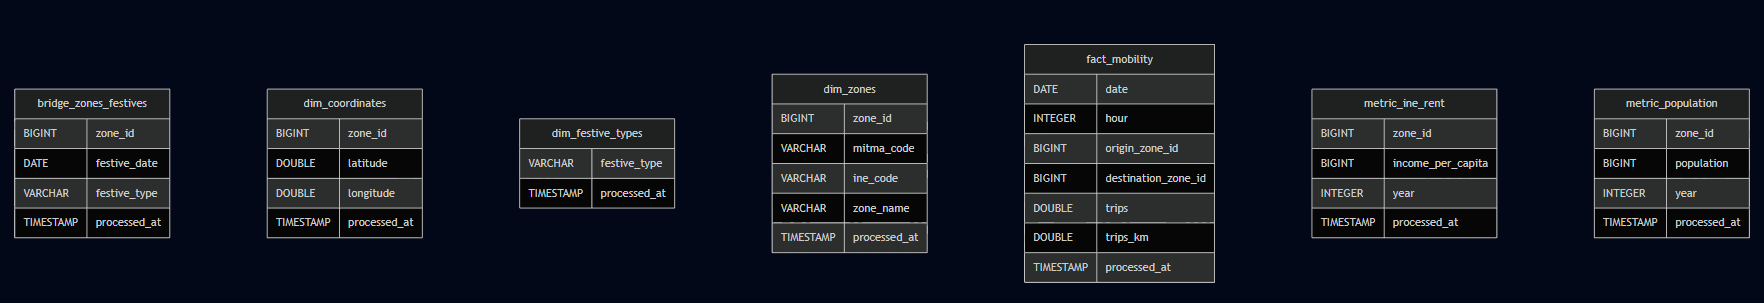
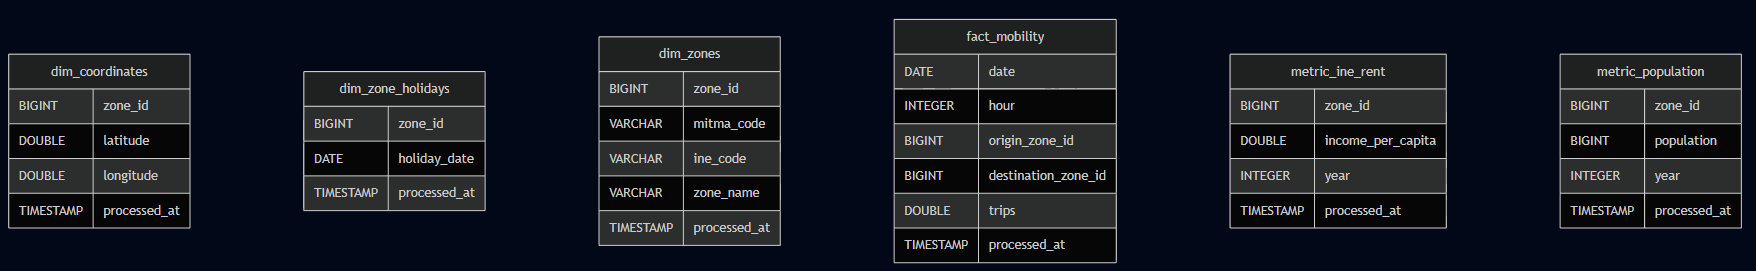
docs: new silver calendar

diff --git a/docs/sprint_logs/Sprint-2.md b/docs/sprint_logs/Sprint-2.md
@@ -7,7 +7,7 @@
 
 **Date:** 24/11/2025
 
-**Status:** In Progress
+**Status:** Finished
 
 ## 1. Sprint Overview & Objectives
 In this sprint, the team focused on transitioning the project from a basic file-based Proof of Concept (PoC) to a managed Data Lakehouse architecture. The primary goal was to establish the foundational infrastructure using DuckLake, enabling ACID-compliant transactions, metadata management, and scalable storage for the future high-volume mobility data.
@@ -116,8 +116,7 @@ The following tables constitute the Core Lakehouse layer:
 | **`fact_mobility`** | Fact | Partitioned by Date. IDs resolved to `BIGINT` from `dim_zone`. Mobilities from any zone not in `dim_zone` **discarded**. Date formated (with TRY because it can have wrong values i.e. `20231035`). Posibility of using batches. `periodo` casted to INTEGER. `Viajes` casted to DOUBLE (With REPLACE for decimals). |
 | **`dim_zones`** | Dim | Our own zone_id for each pair mitma-ine codes (BIGINT). Deduplicated mitma_codes with different ine_codes as MIN(ine_code) (Agregación de municipios). Cleaned `NA` or `NULL` in any mitma or ine code from `bronze.mapping_ine_mitma`. |
 | **`dim_coordinates`** | Dim | Joined to our `zone_id`. Centroids calculated via `latitude` and `longitude` (DOUBLE) (REPLACE `,` by `.`). |
-| **`dim_festive_types`** | Dim | Normalized distinct list of holiday categories (e.g., 'NationalFestive'). 1 type for all 3 different ways to say `NationalFestive` (`festivo nacional`, `Festivo Nacional` (ILIKE), `fiesta nacional`) |
-| **`bridge_zones_festives`** | Bridge | Links Zones to Dates and Holiday types. Uses Cross Join to apply national events to all zones. `festive_date` casted to DATE. |
+| **`dim_zone_holidays`** | Dim | Links Zones to Dates and National Holidays. Uses Cross Join to apply national events to all zones. `festive_date` casted to DATE. National Holidays have 3 different ways to say `National Festive` (`festivo nacional`, `Festivo Nacional` (ILIKE), `fiesta nacional`). |
 | **`metric_population`** | Metric | Linked to our `zone_id`. Safe Double-to-Int casting for population. Asigned all for 2023. |
 | **`metric_ine_rent`** | Metric | Linked to our `zone_id`. `income_per_capita` as BIGINT with REPLACE(`,` by ` `). `year` as INTEGER. Only from the rows where `Distritos` and  `Secciones` are `NULL`, the income is not null, and the `zone_id`exists in `dim_zone`. |
 
@@ -127,14 +126,16 @@ The following tables constitute the Core Lakehouse layer:
 
 ---
 
-### 3.3. Gold Layer Analytics `(In progress)`
+### 3.3. Gold Layer Analytics `(Finished)`
 
 The Gold layer constitutes the **Analytical/Mart** zone of the Lakehouse. Unlike the Silver layer, which focuses on data integrity and normalization, the Gold layer is purpose-built to answer specific business questions. It consists of highly aggregated, business-ready tables derived from complex joins between the Fact and Dimension tables.
 
 **1. Business Question 1: Mobility Pattern Characterization**
-To identify "Typical Day" patterns, we moved beyond simple date groupings and implemented a dynamic categorization engine:
-*   **Calendar Logic:** We implemented a Common Table Expression (CTE) to generate a continuous date series. This was joined with the `bridge_zones_festives` table to dynamically classify every date into three distinct categories: `'weekday'`, `'weekend'`, or `'festive'`.
-*   **Hourly Aggregation:** We aggregated the billions of records in `fact_mobility` to calculate the average hourly trip volume (`SUM(trips) / count_of_days`) for each category. This allows transport experts to visualize the "Pulse of the City" distinct from calendar anomalies.
+To identify "Typical Day" patterns, we moved beyond simple heuristic assumptions and implemented an unsupervised machine learning approach within the Gold Layer pipeline:
+*   **Profile Normalization**: We transformed raw trip counts into normalized daily profiles (probability distributions). This allows the model to compare the shape of the hourly demand curve (e.g., morning peaks vs. lunch plateaus) regardless of the absolute volume of trips.
+*   **Unsupervised Clustering (K-Means)**: We applied K-Means clustering ($k=3$) to mathematically group days with similar temporal behaviors. This creates data-driven categories rather than relying solely on the calendar.
+* **Gold Table Materialization:** The resulting centroids are stored in lakehouse.gold.typical_day_by_cluster. This table represents the "Pulse of the City" for distinct behaviors (e.g., Standard Workday, Leisure/Saturday, Quiet/Sunday).
+* **Semantic Validation:** We cross-referenced the mathematical clusters with the bridge_zones_festives Silver table to validate that the clusters correlate with real-world concepts (Weekdays vs. Holidays).
 
 **2. Business Question 2: Infrastructure Gap Identification (Gravity Model)**
 To identify underserved areas, we implemented a classic Gravity Model ($T_{ij} \propto \frac{P_i E_j}{d_{ij}^2}$) using DuckDB's advanced analytical capabilities:
@@ -150,7 +151,7 @@ The following tables represent the final analytical deliverables:
 
 | Table Name | Purpose | Key Metrics |
 | :--- | :--- | :--- |
-| **`daily_average_trips`** | **Typical Day Analysis**. Aggregates mobility by hour and day type (Weekday/Weekend/Festive). | `average_hourly_trips`, `day_type` |
+| **`typical_day_by_cluster`** | **Typical Day Analysis**. To provide a reference hourly mobility profile ("pulse of the city") for each behavioral cluster identified by the machine learning model. | `cluster_id`, `days_in_cluster`, `typical_day` |
 | **`gold_infrastructure_gaps`** | **Gravity Model**. Comparing theoretical demand vs. actual flow to find gaps. | `estimated_potential_trips`, `mismatch_ratio`, `geographic_distance_km` |
 
 
